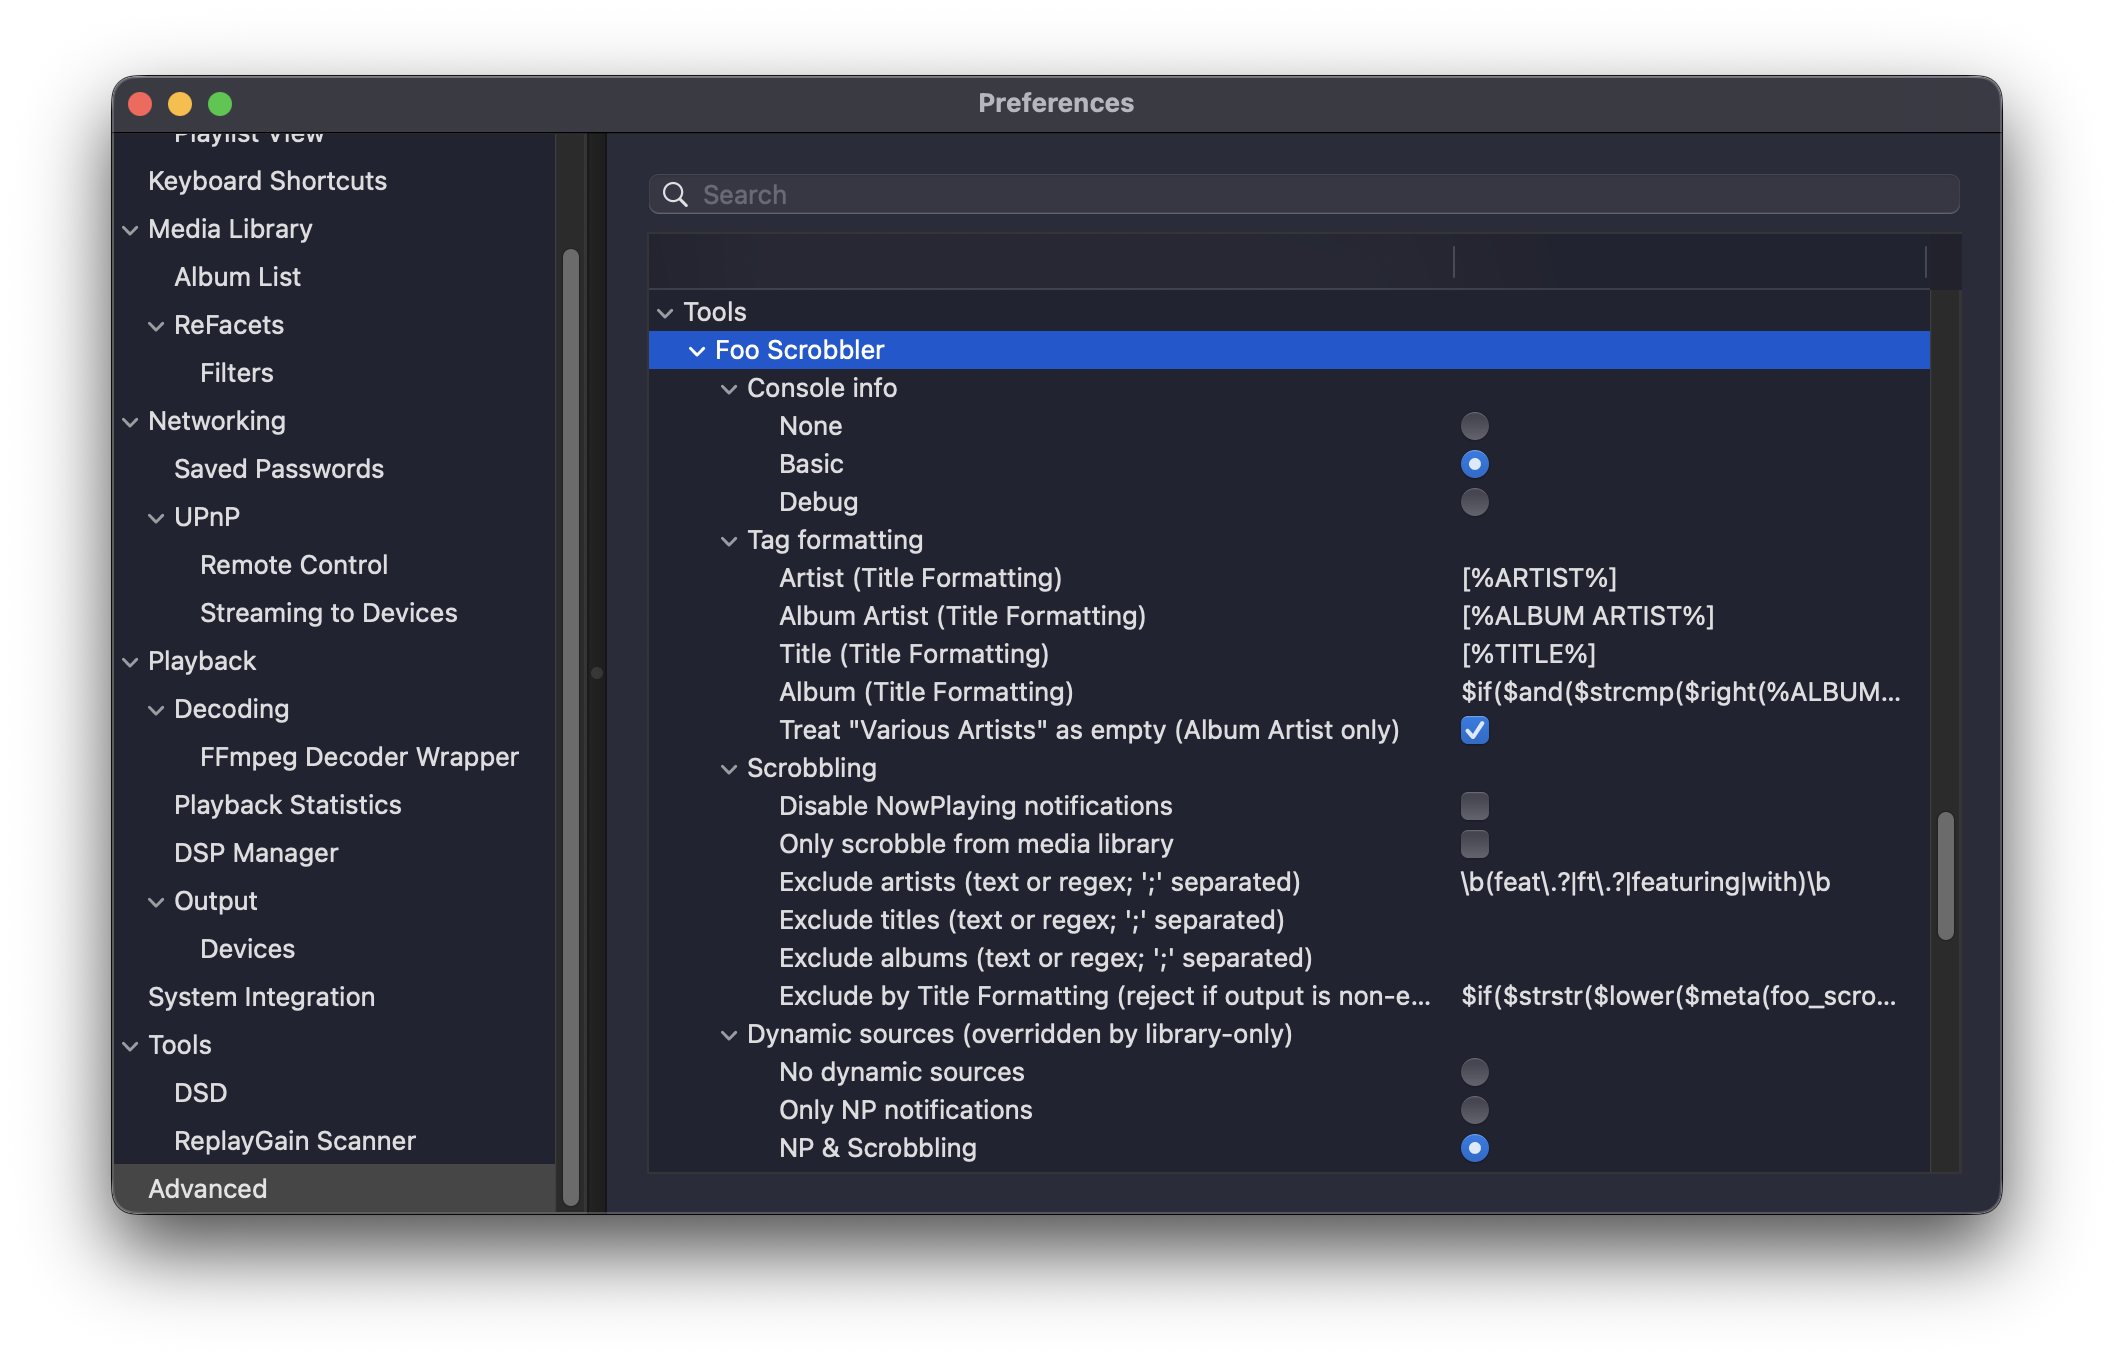
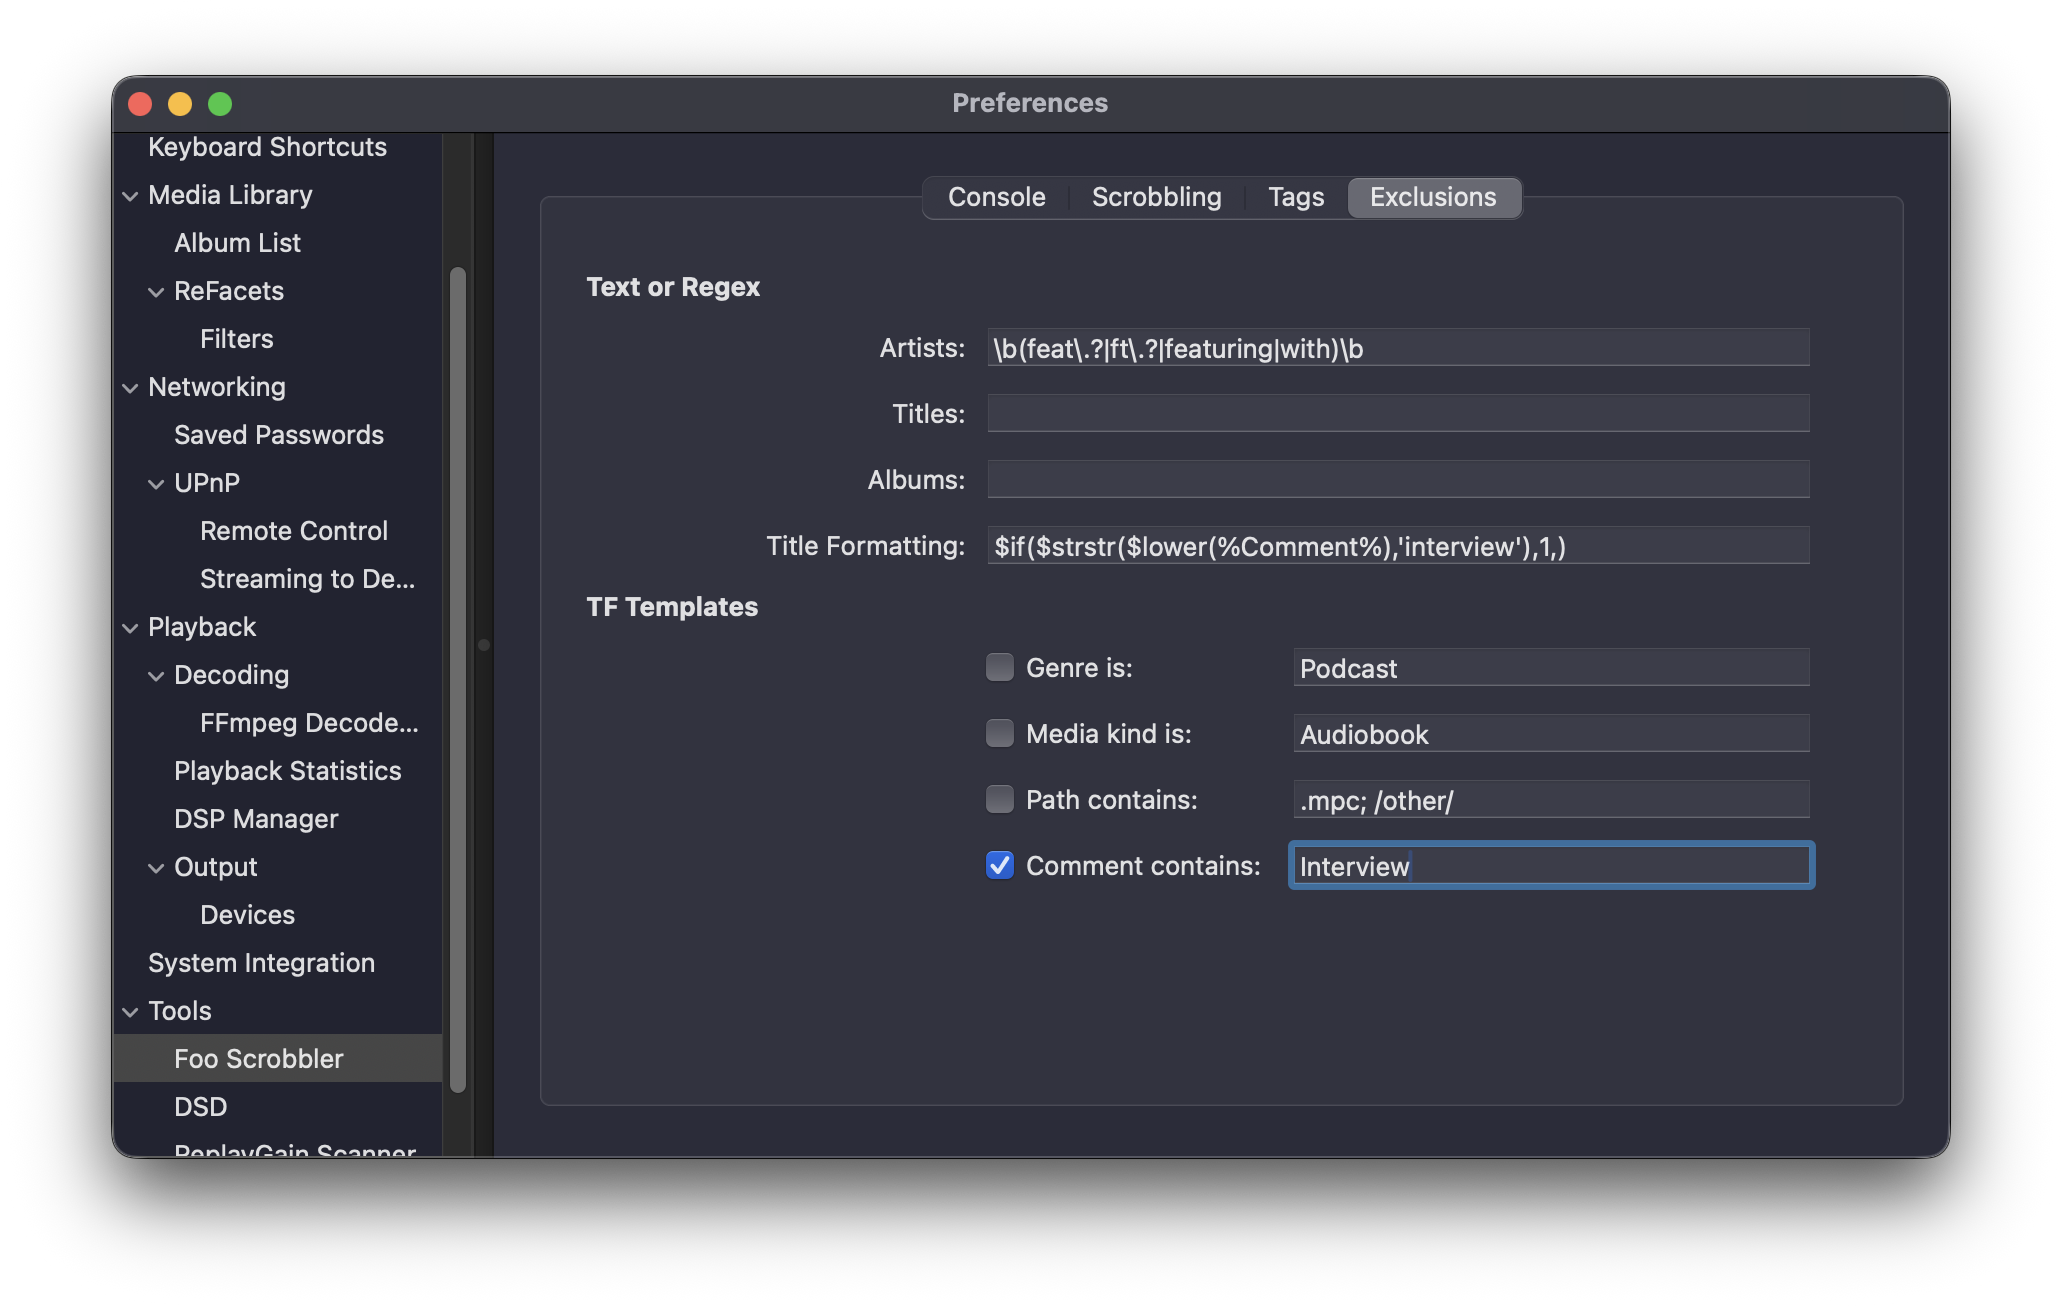
Update for v1.5.0

diff --git a/README.md b/README.md
@@ -23,7 +23,7 @@ Code and releases live in the platform repos below.
 
 ### macOS (Intel + Apple Silicon)
 - **Repo:** [foo_scrobbler_mac](https://github.com/zfoxer/foo_scrobbler_mac)  
-- **Release:** [1.1.2](https://github.com/zfoxer/foo_scrobbler_mac/releases/tag/v1.1.2)  
+- **Release:** [1.5.0](https://github.com/zfoxer/foo_scrobbler_mac/releases/tag/v1.5.0)  
 - **OS support:** macOS **11.5+** (Intel, ARM)
 
 ### Windows